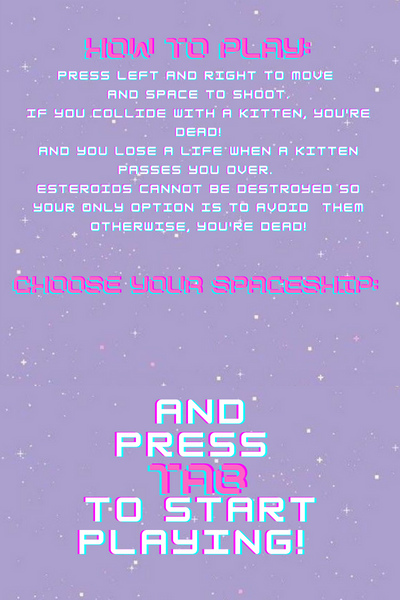
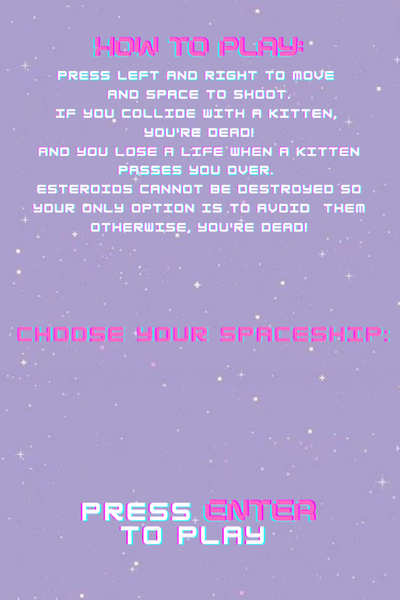
improved start and game over menus

diff --git a/assets/js/models/game.js b/assets/js/models/game.js
@@ -28,9 +28,11 @@ class Game {
 
     this.gameOverImg = new Image
     this.gameOverImg.src = "assets/resources/images/game-over-vertical2.png"
+
+    this.isIntroMenu = true;
   }
 
-  gameIntro() {  
+  gameIntro() {
     const introImg = document.getElementById("game-intro")
     introImg.classList.add("hidden")
     const spaceshipMenu1 = document.getElementById("ship-button1")
@@ -44,6 +46,7 @@ class Game {
     const gameCanvas = document.getElementById("game")
     gameCanvas.classList.remove("hidden")
     this.start()
+    this.isIntroMenu = false
   
   }
 
@@ -126,7 +129,6 @@ class Game {
   loseLife() {
 
     this.kittens.forEach(kitten => {
-      console.log(kitten.isVisible())
       if (!kitten.isVisible()) {
         this.life.img.frameIndex++
         let lifeDownSound = new Audio("assets/resources/sounds/life-down.wav")
@@ -180,7 +182,6 @@ class Game {
     //for each kitten its velocity is increased depending on the level the player is at
     //const vy = 2 + this.level * 0.3
     const vy = 2
-    console.log(vy)
     this.kittens.push(new Kitten(this.ctx, vy))
   }
 
@@ -205,7 +206,6 @@ class Game {
 
     if (musicButton.classList.contains("on")) {
       this.gameOverSound.play()
-      console.log("playing game over sound")
       this.music.pause()
     }
 
@@ -240,10 +240,11 @@ class Game {
   onKeyDown(key) {
     switch(key) {
       case ENTER:
-        window.location.reload()
-      break
-      case TAB:
-        this.gameIntro()
+        if(this.isIntroMenu) {
+          this.gameIntro()
+        } else {
+          window.location.reload()
+        }
       break
     }
   }

diff --git a/assets/css/style.css b/assets/css/style.css
@@ -48,25 +48,25 @@ canvas, #game-intro {
 }
 #ship-button1 {
   position: absolute;
-  top: 330px;
+  top: 380px;
   left: 60px;
 }
 
 #ship-button2 {
   position: absolute;
-  top: 330px;
+  top: 380px;
   left: 150px;
 }
 
 #ship-button3 {
   position: absolute;
-  top: 330px;
+  top: 380px;
   left: 240px;
 }
 
 #ship-button4 {
   position: absolute;
-  top: 330px;
+  top: 380px;
   left: 330px;
 }
 
